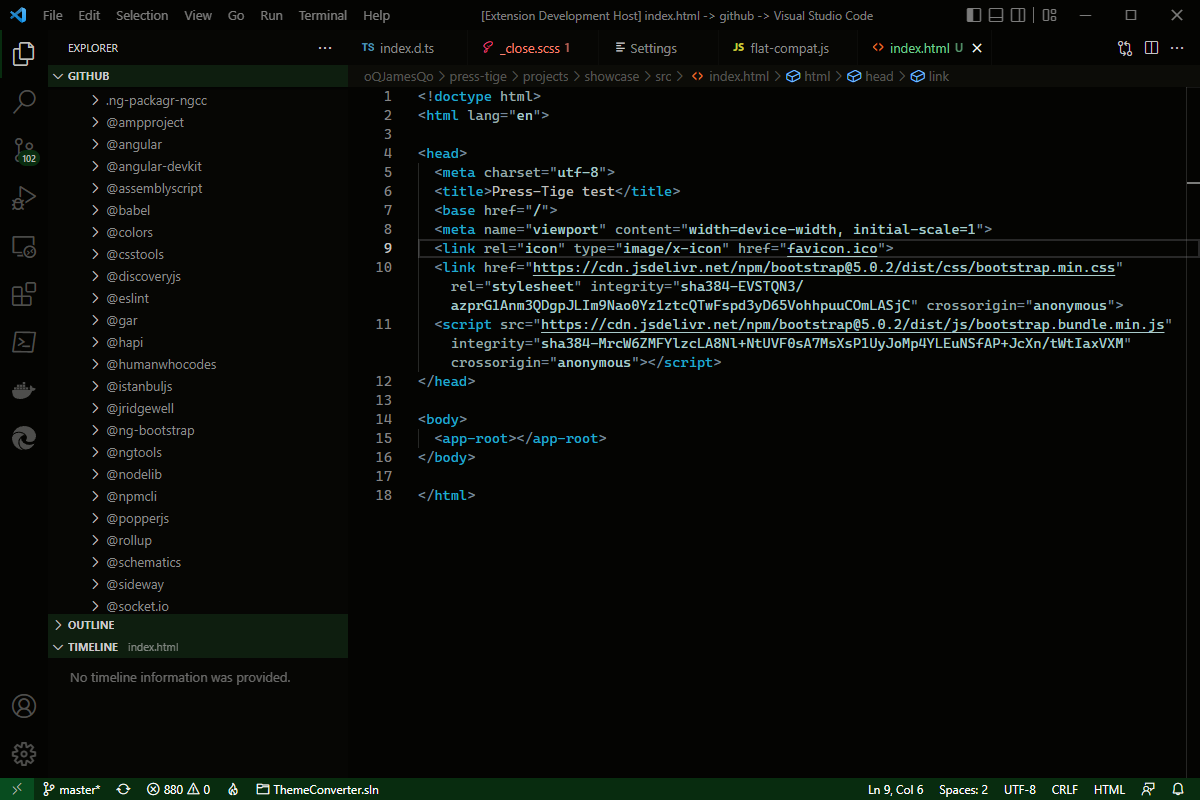
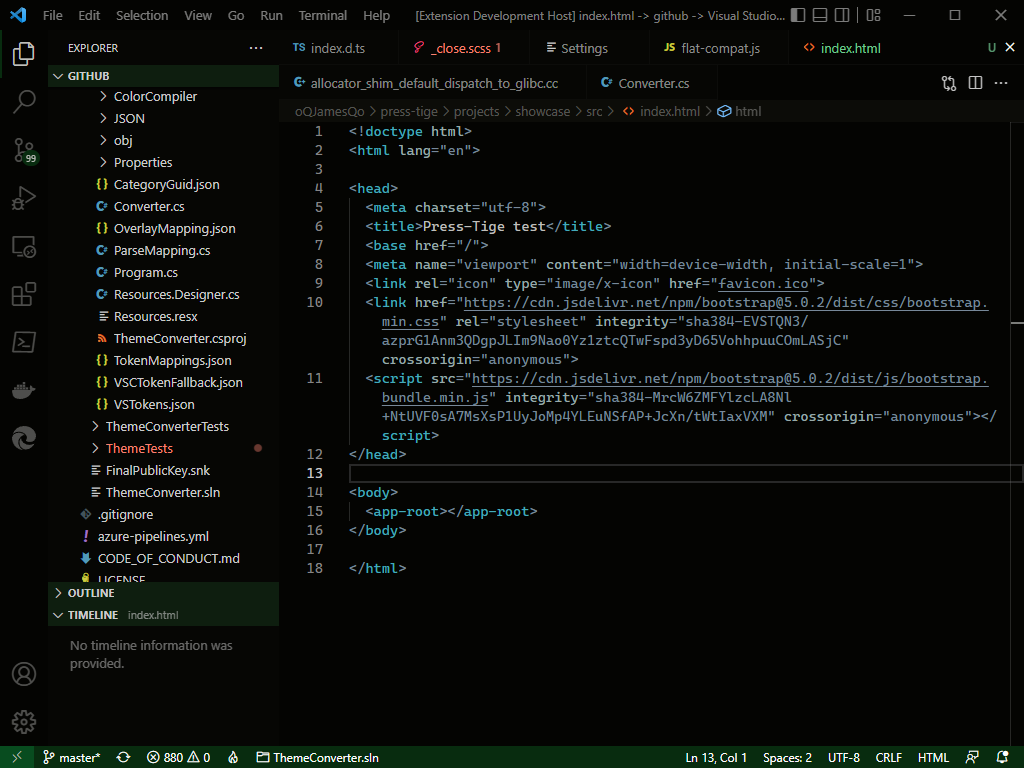
Updated more Deep Dark editor tokens.
Updated more Deep Dark editor tokens to lower the intensity on non-HDR monitors.

diff --git a/CHANGELOG.md b/CHANGELOG.md
@@ -28,3 +28,6 @@
 
 ## [0.0.9] - 21 Aug, 2022
 ### More color settings for the Deep Dark theme in the set. Updated few editor tokens to lower the intensity on non-HDR monitors.
+
+## [0.0.10] - 28 Aug, 2022
+### Updated more Deep Dark editor tokens to lower the intensity on non-HDR monitors.
